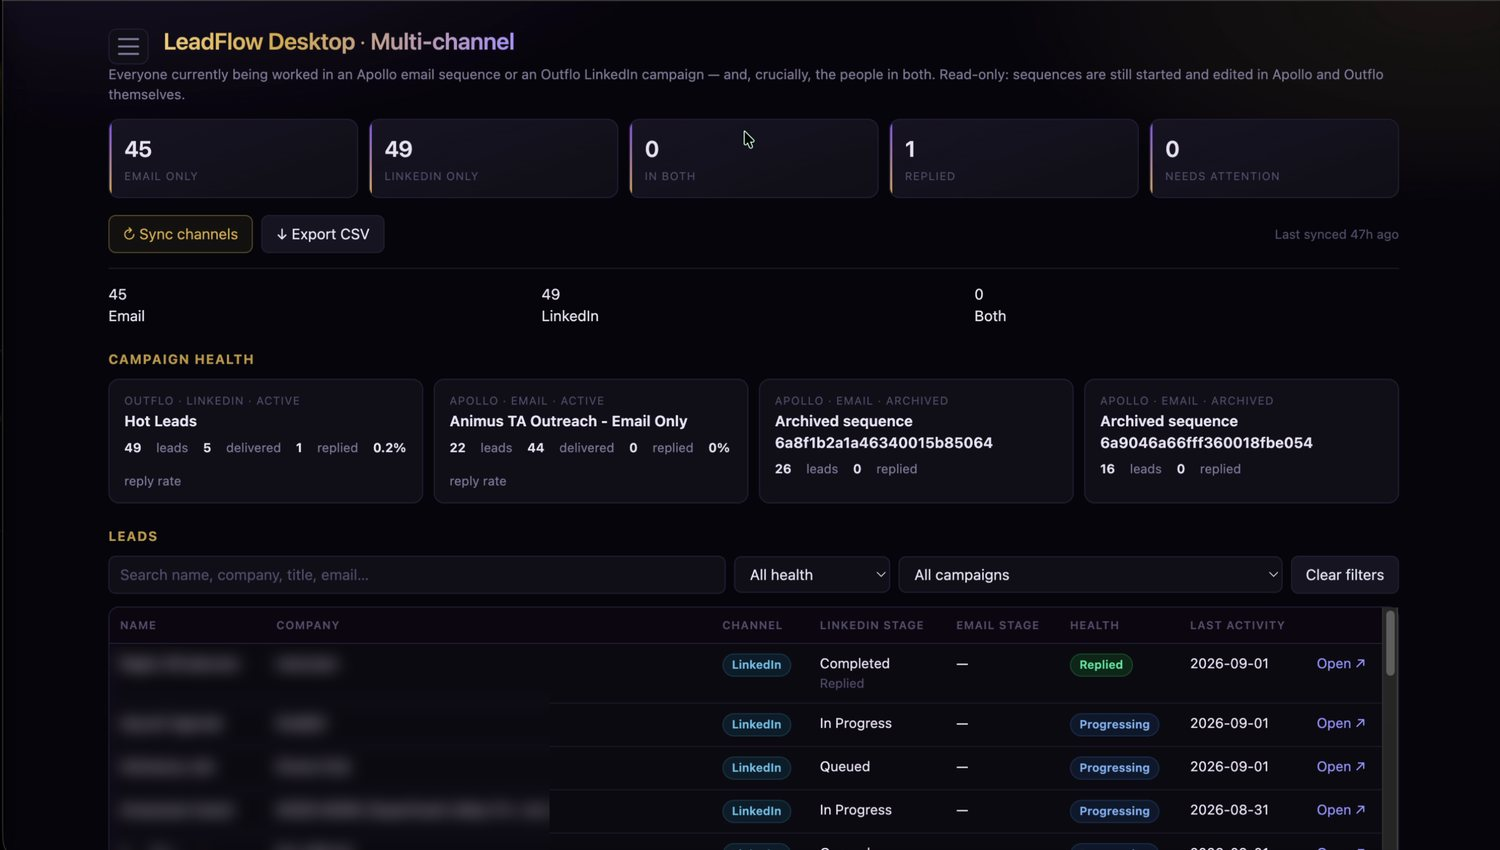
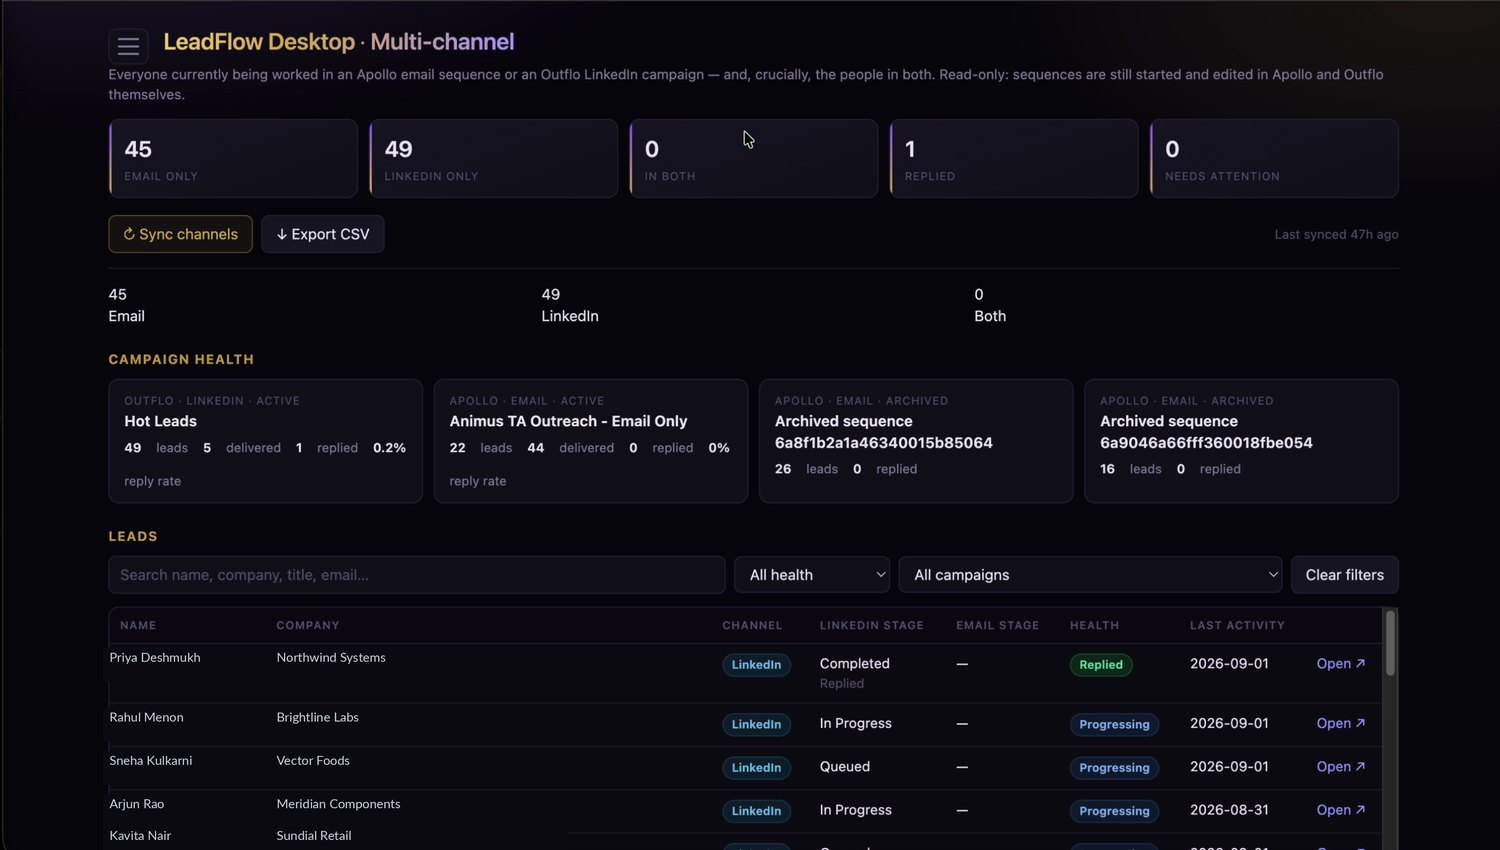
Case study: add product video, window frames, replace blur with placeholder names

diff --git a/software/index.html b/software/index.html
@@ -820,36 +820,40 @@
     <h3>What it does</h3>
     <div class="slides" id="cs-slides">
       <div class="slide" data-slide="1">
-        <figure class="slide__shot"><img src="/assets/img/lf-today.jpg" alt="Daily queue showing ninety two actions due, each follow up with the message already drafted and buttons to copy it, open the profile and mark it sent" loading="lazy" width="1500" height="812"></figure>
+        <figure class="shot slide__shot">
+          <div class="shot__bar" aria-hidden="true"><i></i><i></i><i></i><b>LeadFlow Desktop</b></div>
+          <video src="/assets/img/lf-sections.mp4" poster="/assets/img/lf-sections-poster.jpg"
+                 autoplay muted loop playsinline preload="metadata"
+                 aria-label="The sections menu opening, showing five pipelines each with a live count of items waiting"></video>
+        </figure>
         <div class="slide__body">
-          <div class="slide__head">
-            <span class="slide__n">01</span>
-            <span class="slide__label">Daily queue</span>
-          </div>
-          <b>The day is already sorted</b>
-          <span>Ninety two actions due, ordered by what is furthest past its window. Each one arrives with the follow up already written for that person, the profile a click away, and one button to mark it sent.</span>
+          <div class="slide__head"><span class="slide__n">01</span><span class="slide__label">One window</span></div>
+          <b>Five pipelines, one place to look</b>
+          <span>Funding leads, outreach, funding outreach, multi channel, and the day itself. The number beside each is what is waiting in it right now, so the decision about what to open has already been made for you.</span>
         </div>
       </div>
       <div class="slide slide--flip" data-slide="2">
-        <figure class="slide__shot"><img src="/assets/img/lf-multichannel.jpg" alt="Multi channel view combining Apollo email sequences and Outflo LinkedIn campaigns with per campaign reply rates" loading="lazy" width="1500" height="850"></figure>
+        <figure class="shot slide__shot">
+          <div class="shot__bar" aria-hidden="true"><i></i><i></i><i></i><b>LeadFlow Desktop · Today</b></div>
+          <img src="/assets/img/lf-today.jpg" alt="Daily queue showing ninety two actions due, each with the follow up already drafted and buttons to copy it, open the profile and mark it sent" loading="lazy" width="1500" height="812">
+        </figure>
         <div class="slide__body">
-          <div class="slide__head">
-            <span class="slide__n">02</span>
-            <span class="slide__label">One pipeline</span>
-          </div>
-          <b>Email and LinkedIn stop being two lists</b>
-          <span>Sequences live in Apollo, campaigns live in Outflo, and nobody can see who is in both. This pulls them into one view with reply rates per campaign, so a person never gets the same pitch twice from two directions.</span>
+          <div class="slide__head"><span class="slide__n">02</span><span class="slide__label">Daily queue</span></div>
+          <b>The day arrives already sorted</b>
+          <span>Ninety two actions due, ordered by how far past their window they are. Each one comes with the follow up already written for that person, their profile one click away, and a single button to mark it sent.</span>
+          <em>Names and companies here are placeholders. Everything else is a live screen.</em>
         </div>
       </div>
       <div class="slide" data-slide="3">
-        <figure class="slide__shot"><img src="/assets/img/lf-sections.jpg" alt="Section navigation listing Today, Funding Leads, Outreach, Funding Outreach and Multi channel with live counts" loading="lazy" width="1500" height="725"></figure>
+        <figure class="shot slide__shot">
+          <div class="shot__bar" aria-hidden="true"><i></i><i></i><i></i><b>LeadFlow Desktop · Multi-channel</b></div>
+          <img src="/assets/img/lf-multichannel.jpg" alt="Multi channel view combining Apollo email sequences and Outflo LinkedIn campaigns with reply rates per campaign" loading="lazy" width="1500" height="850">
+        </figure>
         <div class="slide__body">
-          <div class="slide__head">
-            <span class="slide__n">03</span>
-            <span class="slide__label">Everything in one window</span>
-          </div>
-          <b>Five pipelines, one place to look</b>
-          <span>Today, funding leads, outreach, funding outreach and multi channel, each with a live count. The number next to a section is the number of things waiting, so the choice of what to open is made for you.</span>
+          <div class="slide__head"><span class="slide__n">03</span><span class="slide__label">One pipeline</span></div>
+          <b>Email and LinkedIn stop being two lists</b>
+          <span>Sequences run in Apollo, campaigns run in Outflo, and neither can see the other. This pulls both into one view with reply rates per campaign, so nobody gets the same pitch twice from two directions.</span>
+          <em>Names and companies here are placeholders. Everything else is a live screen.</em>
         </div>
       </div>
     </div>

diff --git a/assets/site.css b/assets/site.css
@@ -571,30 +571,43 @@
   @media (max-width:760px){ body::after{display:none} }
 
   /* ---------- alternating story slides ---------- */
-  .slides{margin:34px 0 6px}
+  .slides{margin:36px 0 6px}
   .slide{
-    display:grid;grid-template-columns:1.1fr .9fr;gap:46px;align-items:center;
-    padding:52px 0;border-top:1px solid var(--border);
-    opacity:0;transform:translateY(22px);
-    transition:opacity .6s cubic-bezier(.22,1,.36,1),transform .6s cubic-bezier(.22,1,.36,1);
+    display:grid;grid-template-columns:1.08fr .92fr;gap:50px;align-items:center;
+    padding:58px 0;border-top:1px solid var(--border);
+    opacity:0;transform:translateY(24px);
+    transition:opacity .65s cubic-bezier(.22,1,.36,1),transform .65s cubic-bezier(.22,1,.36,1);
   }
-  .slide:first-child{border-top:0;padding-top:8px}
+  .slide:first-child{border-top:0;padding-top:10px}
   .slide.is-on{opacity:1;transform:none}
   .slide--flip .slide__shot{order:2}
   .slide--flip .slide__body{order:1}
-  @media(max-width:820px){
-    .slide{grid-template-columns:1fr;gap:24px;padding:42px 0}
+  @media(max-width:860px){
+    .slide{grid-template-columns:1fr;gap:26px;padding:44px 0}
     .slide--flip .slide__shot,.slide--flip .slide__body{order:initial}
   }
-  .slide__shot{
-    margin:0;border:1px solid var(--border);border-radius:12px;overflow:hidden;
-    background:#0d1018;box-shadow:0 20px 46px -24px rgba(0,0,0,.85);
+
+  /* app window frame */
+  .shot{
+    margin:0;border:1px solid var(--border-lit);border-radius:12px;overflow:hidden;
+    background:#0d1018;box-shadow:0 34px 64px -32px rgba(0,0,0,.92),0 2px 8px -4px rgba(0,0,0,.6);
   }
-  .slide__shot img{width:100%;height:auto;display:block}
-  .slide__head{display:flex;align-items:baseline;gap:13px;margin-bottom:14px}
+  .shot__bar{
+    display:flex;align-items:center;gap:7px;padding:10px 13px;
+    background:rgba(255,255,255,.032);border-bottom:1px solid var(--border);
+  }
+  .shot__bar i{width:9px;height:9px;border-radius:50%;background:rgba(255,255,255,.16);flex:0 0 auto}
+  .shot__bar b{
+    margin-left:10px;font-family:var(--font-mono);font-weight:400;font-size:10.5px;
+    letter-spacing:.12em;text-transform:uppercase;color:var(--text-3);
+  }
+  .shot img,.shot video{width:100%;height:auto;display:block;background:#0d1018}
+
+  .slide__head{display:flex;align-items:baseline;gap:13px;margin-bottom:15px}
   .slide__n{font-family:var(--font-mono);font-size:11px;letter-spacing:.14em;color:var(--accent)}
   .slide__label{font-family:var(--font-mono);font-size:11px;letter-spacing:.14em;
     text-transform:uppercase;color:var(--text-3)}
-  .slide b{display:block;color:var(--text);font-size:1.32rem;font-weight:600;
+  .slide b{display:block;color:var(--text);font-size:1.35rem;font-weight:600;
     letter-spacing:-.015em;line-height:1.25;margin-bottom:12px}
   .slide span{display:block;color:var(--text-2);font-size:1rem;line-height:1.75}
+  .slide em{display:block;font-style:normal;margin-top:14px;font-size:.86rem;color:var(--text-3)}

diff --git a/_build_software.py b/_build_software.py
@@ -522,36 +522,40 @@ BODY = """
     <h3>What it does</h3>
     <div class="slides" id="cs-slides">
       <div class="slide" data-slide="1">
-        <figure class="slide__shot"><img src="/assets/img/lf-today.jpg" alt="Daily queue showing ninety two actions due, each follow up with the message already drafted and buttons to copy it, open the profile and mark it sent" loading="lazy" width="1500" height="812"></figure>
+        <figure class="shot slide__shot">
+          <div class="shot__bar" aria-hidden="true"><i></i><i></i><i></i><b>LeadFlow Desktop</b></div>
+          <video src="/assets/img/lf-sections.mp4" poster="/assets/img/lf-sections-poster.jpg"
+                 autoplay muted loop playsinline preload="metadata"
+                 aria-label="The sections menu opening, showing five pipelines each with a live count of items waiting"></video>
+        </figure>
         <div class="slide__body">
-          <div class="slide__head">
-            <span class="slide__n">01</span>
-            <span class="slide__label">Daily queue</span>
-          </div>
-          <b>The day is already sorted</b>
-          <span>Ninety two actions due, ordered by what is furthest past its window. Each one arrives with the follow up already written for that person, the profile a click away, and one button to mark it sent.</span>
+          <div class="slide__head"><span class="slide__n">01</span><span class="slide__label">One window</span></div>
+          <b>Five pipelines, one place to look</b>
+          <span>Funding leads, outreach, funding outreach, multi channel, and the day itself. The number beside each is what is waiting in it right now, so the decision about what to open has already been made for you.</span>
         </div>
       </div>
       <div class="slide slide--flip" data-slide="2">
-        <figure class="slide__shot"><img src="/assets/img/lf-multichannel.jpg" alt="Multi channel view combining Apollo email sequences and Outflo LinkedIn campaigns with per campaign reply rates" loading="lazy" width="1500" height="850"></figure>
+        <figure class="shot slide__shot">
+          <div class="shot__bar" aria-hidden="true"><i></i><i></i><i></i><b>LeadFlow Desktop · Today</b></div>
+          <img src="/assets/img/lf-today.jpg" alt="Daily queue showing ninety two actions due, each with the follow up already drafted and buttons to copy it, open the profile and mark it sent" loading="lazy" width="1500" height="812">
+        </figure>
         <div class="slide__body">
-          <div class="slide__head">
-            <span class="slide__n">02</span>
-            <span class="slide__label">One pipeline</span>
-          </div>
-          <b>Email and LinkedIn stop being two lists</b>
-          <span>Sequences live in Apollo, campaigns live in Outflo, and nobody can see who is in both. This pulls them into one view with reply rates per campaign, so a person never gets the same pitch twice from two directions.</span>
+          <div class="slide__head"><span class="slide__n">02</span><span class="slide__label">Daily queue</span></div>
+          <b>The day arrives already sorted</b>
+          <span>Ninety two actions due, ordered by how far past their window they are. Each one comes with the follow up already written for that person, their profile one click away, and a single button to mark it sent.</span>
+          <em>Names and companies here are placeholders. Everything else is a live screen.</em>
         </div>
       </div>
       <div class="slide" data-slide="3">
-        <figure class="slide__shot"><img src="/assets/img/lf-sections.jpg" alt="Section navigation listing Today, Funding Leads, Outreach, Funding Outreach and Multi channel with live counts" loading="lazy" width="1500" height="725"></figure>
+        <figure class="shot slide__shot">
+          <div class="shot__bar" aria-hidden="true"><i></i><i></i><i></i><b>LeadFlow Desktop · Multi-channel</b></div>
+          <img src="/assets/img/lf-multichannel.jpg" alt="Multi channel view combining Apollo email sequences and Outflo LinkedIn campaigns with reply rates per campaign" loading="lazy" width="1500" height="850">
+        </figure>
         <div class="slide__body">
-          <div class="slide__head">
-            <span class="slide__n">03</span>
-            <span class="slide__label">Everything in one window</span>
-          </div>
-          <b>Five pipelines, one place to look</b>
-          <span>Today, funding leads, outreach, funding outreach and multi channel, each with a live count. The number next to a section is the number of things waiting, so the choice of what to open is made for you.</span>
+          <div class="slide__head"><span class="slide__n">03</span><span class="slide__label">One pipeline</span></div>
+          <b>Email and LinkedIn stop being two lists</b>
+          <span>Sequences run in Apollo, campaigns run in Outflo, and neither can see the other. This pulls both into one view with reply rates per campaign, so nobody gets the same pitch twice from two directions.</span>
+          <em>Names and companies here are placeholders. Everything else is a live screen.</em>
         </div>
       </div>
     </div>
